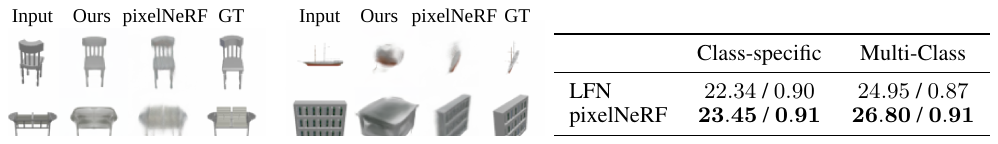
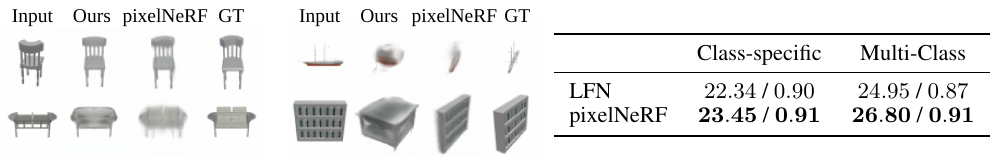
Add Instant-NGP review and fix figure alignment

diff --git a/assets/css/compact-captions.css b/assets/css/compact-captions.css
@@ -6,6 +6,8 @@
   width: fit-content;
   max-width: 100%;
   margin: 8px auto 0;
+  left: auto;
+  transform: none;
   line-height: 0;
 }
 

diff --git a/_posts/2026-09-23-instant-ngp.md b/_posts/2026-09-23-instant-ngp.md
@@ -1,0 +1,222 @@
+---
+title: "[논문리뷰] Instant Neural Graphics Primitives with a Multiresolution Hash Encoding"
+date: 2026-09-23 04:20:00 +0900
+categories: [논문리뷰, Computer Graphics]
+tags: [Neural Graphics Primitives, Multiresolution Hash Encoding, Neural Rendering, NeRF, Signed Distance Function, CUDA, SIGGRAPH]
+description: "SIGGRAPH 2022"
+math: true
+toc: true
+compact_captions: true
+---
+
+> \[[Paper](https://arxiv.org/abs/2201.05989)\] \[[Page](https://nvlabs.github.io/instant-ngp/)\] \[[Github](https://github.com/NVlabs/instant-ngp)\]
+>
+> Thomas Müller, Alex Evans, Christoph Schied, Alexander Keller
+
+## Introduction
+
+Neural graphics primitive는 image, signed distance function(SDF), radiance field처럼 graphics에서 사용하는 함수를 fully connected neural network로 표현한다. 이러한 representation은 continuous하고 compact하지만, high-frequency local detail을 학습하려면 큰 MLP와 긴 optimization 시간이 필요하다. 특히 NeRF는 positional encoding을 사용하더라도 ray마다 network를 반복 평가하므로 training과 rendering cost가 크다.
+
+논문은 작은 MLP 앞에 trainable multiresolution hash encoding을 배치한다. Scene의 detail은 여러 해상도의 hash table에 저장하고, MLP는 interpolated feature들을 결합하여 최종 출력을 예측한다. Hash table은 tree처럼 pruning, splitting, merging을 수행하지 않으며 lookup에 control flow가 필요하지 않다. 저자들은 이를 fully-fused CUDA implementation과 결합하여 single GPU에서 neural graphics primitive를 수 초 안에 학습한다.
+
+![여러 neural graphics primitive의 빠른 학습 결과](/assets/img/instant-ngp/fig1_overview.png)
+_Fig 1. Multiresolution hash encoding을 gigapixel image, SDF, neural radiance caching(NRC), NeRF에 적용한 결과. 각 행은 짧은 학습 시간에도 reference의 local detail에 빠르게 접근하는 과정을 보여준다._
+
+이 논문의 대상은 NeRF 하나로 한정되지 않는다. 동일한 encoding과 대부분의 hyperparameter를 다음 네 task에 적용하고, task에 따라 hash table 크기만 조절한다.
+
+1. 2D coordinate를 RGB color로 mapping하는 gigapixel image approximation
+2. 3D coordinate를 surface까지의 signed distance로 mapping하는 neural SDF
+3. Path tracer의 lighting calculation을 예측하는 neural radiance caching
+4. Image와 camera pose로부터 density와 view-dependent radiance를 학습하는 NeRF
+
+논문의 기여는 task-independent한 multiresolution hash encoding, hash collision을 network optimization에 포함하는 representation, 그리고 GPU의 cache와 parallelism을 고려한 implementation으로 정리된다. 이 결합은 high-quality neural graphics primitive의 training 시간을 수시간에서 수초 또는 수분으로 단축한다.
+
+## Related Work
+
+### Frequency Encodings
+
+MLP는 raw coordinate에서 high-frequency function을 학습하는 데 어려움이 있다. Positional encoding은 scalar coordinate $x$를 여러 frequency의 sine과 cosine으로 변환하여 network가 세부 변화를 표현하도록 한다.
+
+$$
+\begin{equation}
+\operatorname{enc}(x)=
+\left(
+\sin(2^0x),\ldots,\sin(2^{L-1}x),
+\cos(2^0x),\ldots,\cos(2^{L-1}x)
+\right).
+\tag{1}
+\end{equation}
+$$
+
+NeRF는 spatial coordinate와 view direction을 이러한 frequency encoding으로 변환한다. Encoding 자체에는 trainable parameter가 없으므로 scene의 detail은 MLP weights에 저장된다. 따라서 높은 approximation quality를 위해 비교적 큰 network가 필요하다.
+
+### Parametric Encodings
+
+Parametric encoding은 MLP 외부의 grid 또는 tree에 trainable feature vector를 저장한다. Input coordinate 주변의 feature만 lookup하고 interpolation하므로 하나의 sample이 update하는 parameter 수는 작다. 더 많은 parameter를 사용하면서도 MLP를 줄일 수 있어 dense MLP보다 빠르게 수렴한다.
+
+Dense feature grid는 전체 domain에 같은 양의 memory를 할당한다. 하지만 3D scene의 visible surface는 전체 volume에서 작은 부분만 차지하므로 empty space에도 feature가 저장된다. Grid resolution이 $N$일 때 storage는 $O(N^3)$로 증가하지만 surface area는 대체로 $O(N^2)$로 증가한다.
+
+### Sparse Parametric Encodings
+
+Octree와 sparse voxel grid는 occupied region에만 feature를 할당하여 dense grid의 낭비를 줄인다. 그러나 NeRF에서는 geometry가 training 중에 나타나므로 coarse-to-fine refinement와 periodic pruning 같은 구조 변경이 필요하다. 이러한 update는 training procedure를 복잡하게 만들고, GPU에서는 branch divergence와 pointer chasing을 발생시킬 수 있다.
+
+Instant-NGP는 여러 resolution의 dense grid vertex를 고정 크기 array에 mapping한다. Coarse level은 collision-free dense grid로 동작하고, fine level은 spatial hash table로 동작한다. 별도의 sparse structure를 유지하지 않으면서 memory를 제한하고 O(1) lookup을 제공한다.
+
+## Method
+
+### Preliminaries
+
+Coordinate-based neural representation을 $m(\mathbf{y};\Phi)$라 하자. 기존 frequency encoding에서는 입력 coordinate $\mathbf{x}$를 fixed function으로 변환하지만, 이 논문은 trainable parameter $\theta$를 가진 encoding을 사용한다.
+
+$$
+\mathbf{y}=\operatorname{enc}(\mathbf{x};\theta),
+\qquad
+\hat{\mathbf{v}}=m(\mathbf{y};\Phi).
+$$
+
+$\theta$는 multiresolution hash table의 feature vector이고, $\Phi$는 작은 MLP의 weight다. 두 parameter set은 task loss에서 전달되는 gradient로 함께 학습된다.
+
+![서로 다른 input encoding의 NeRF reconstruction 비교](/assets/img/instant-ngp/fig2_encoding_comparison.png)
+_Fig 2. 같은 NeRF implementation에서 input encoding과 MLP 크기를 바꾼 비교. Hash table $T=2^{14}$는 frequency encoding과 비슷한 parameter 수로 8배 이상 빠르게 학습하고, $T=2^{19}$는 training time을 거의 늘리지 않으면서 가장 높은 PSNR을 얻는다._
+
+No encoding을 사용한 MLP는 smooth한 approximation만 학습한다. Frequency encoding은 detail을 개선하지만 큰 MLP가 필요하다. Single-resolution dense grid는 빠르지만 multi-scale structure를 활용하지 못하며, multiresolution dense grid는 높은 품질을 얻는 대신 많은 parameter를 사용한다. Multiresolution hash encoding은 fixed memory budget 안에서 여러 spatial scale의 feature를 제공한다.
+
+### Multiresolution Hash Encoding
+
+Encoding은 $L$개의 독립적인 level로 구성된다. 각 level은 최대 $T$개의 $F$-dimensional feature vector를 저장한다. Level $l$의 grid resolution은 coarsest resolution과 finest resolution 사이의 geometric progression으로 정한다.
+
+$$
+\begin{equation}
+N_l:=\left\lfloor N_{\min}\cdot b^l\right\rfloor.
+\tag{2}
+\end{equation}
+$$
+
+$$
+\begin{equation}
+b:=\exp\left(
+\frac{\ln N_{\max}-\ln N_{\min}}{L-1}
+\right).
+\tag{3}
+\end{equation}
+$$
+
+논문의 기본 설정은 $L=16$, $F=2$, $$N_{\min}=16$$이다. Task에 따라 hash table 크기 $T$는 $2^{14}$부터 $2^{24}$, finest resolution $$N_{\max}$$는 512부터 524288 사이에서 선택한다. 실제로 조절해야 하는 주요 값은 $T$와 $$N_{\max}$$이며, 논문의 task에서 geometric growth factor $b$는 1.26부터 2 사이이다.
+
+Input coordinate $\mathbf{x}\in\mathbb{R}^d$를 level resolution으로 scale하면 $\mathbf{x}_l=\mathbf{x}N_l$을 얻는다. $\lfloor\mathbf{x}_l\rfloor$와 $\lceil\mathbf{x}_l\rceil$이 만드는 voxel에는 $2^d$개의 integer vertex가 있다. 각 vertex coordinate를 level별 feature array의 index로 mapping한다.
+
+Coarse level에서 필요한 entry 수가 $T$보다 작으면 모든 vertex를 서로 다른 entry에 대응시킨다. Fine level에서는 spatial hash function을 사용한다.
+
+$$
+\begin{equation}
+h(\mathbf{x})=
+\left(
+\bigoplus_{i=1}^{d} x_i\pi_i
+\right)\bmod T,
+\tag{4}
+\end{equation}
+$$
+
+$\oplus$는 bit-wise XOR이고, $\pi_i$는 dimension마다 다른 큰 prime number다. 구현에서는 cache coherence를 위해 $\pi_1=1$을 사용하고, 3D coordinate의 나머지 값으로 2654435761과 805459861을 사용한다.
+
+![Multiresolution hash encoding의 처리 과정](/assets/img/instant-ngp/fig3_hash_encoding_pipeline.png)
+_Fig 3. 입력 coordinate에서 voxel vertex hashing, feature lookup, linear interpolation, level별 feature concatenation, MLP evaluation으로 이어지는 multiresolution hash encoding pipeline._
+
+각 level에서 lookup한 corner feature들은 voxel 내부의 상대 위치
+$\mathbf{w}_l=\mathbf{x}_l-\lfloor\mathbf{x}_l\rfloor$에 따라 $d$-linear interpolation된다. $L$개 level의 interpolated feature와 auxiliary input $\boldsymbol{\xi}\in\mathbb{R}^E$를 concatenate하여 MLP input을 만든다.
+
+$$
+\mathbf{y}\in\mathbb{R}^{LF+E}.
+$$
+
+Auxiliary input에는 NRC의 material feature나 NeRF의 encoded view direction처럼 spatial hash encoding의 대상이 아닌 값이 들어간다. Gradient는 MLP, concatenation, interpolation을 거쳐 해당 sample에서 lookup한 feature vector에만 누적된다.
+
+### Implicit Hash Collision Resolution
+
+논문은 collision을 probing, bucket, chaining으로 명시적으로 해결하지 않는다. Coarse level은 collision이 없어 low-frequency structure를 안정적으로 구분하고, fine level은 collision을 허용하면서 high-frequency detail을 저장한다. 서로 다른 두 point가 모든 level에서 동시에 충돌할 가능성은 낮다.
+
+같은 entry를 참조하는 sample의 gradient는 평균된다. Visible surface처럼 loss에 크게 기여하는 point는 empty space보다 큰 gradient를 만들기 때문에, 중요한 detail이 collision update를 지배한다. 이후의 MLP는 여러 level에서 얻은 feature를 함께 해석하여 남은 ambiguity를 줄인다.
+
+Input distribution이 특정 region으로 집중되면 그 region이 사용하는 fine-level entry의 collision도 감소한다. 따라서 explicit tree update 없이 training data의 분포에 맞춰 representation capacity가 이동한다.
+
+### Linear Interpolation and Continuity
+
+Feature를 interpolation하지 않고 직접 lookup하면 grid boundary에 discontinuity가 생긴다. 논문은 각 level에서 $d$-linear interpolation을 사용하여 encoding과 network output을 continuous하게 만든다. 하지만 derivative까지 continuous하지는 않으므로 SDF surface normal에 작은 discontinuity가 남을 수 있다.
+
+Appendix에서는 interpolation weight에 smoothstep을 적용하는 방법을 제시하지만, 모든 실험은 reconstruction quality가 조금 낮아지는 것을 피하기 위해 기본 linear interpolation을 사용한다.
+
+### Implementation
+
+Encoding은 CUDA로 구현되고 tiny-cuda-nn의 fully-fused MLP와 결합된다. Hash table entry는 half precision으로 저장하고, stable parameter update를 위해 full-precision master copy를 유지한다.
+
+Batch의 모든 input에 대해 첫 번째 level을 처리한 뒤 다음 level로 이동하는 level-wise execution을 사용한다. 이 순서는 동시에 필요한 hash table 영역을 줄여 GPU cache utilization을 높인다. RTX 3090의 6 MB L2 cache에서는 $T\leq2^{19}$까지 encoding performance가 대체로 일정하고, 이 크기를 넘으면 cache oversubscription으로 속도가 감소한다.
+
+NeRF를 제외한 task의 MLP는 width 64의 hidden layer 두 개를 사용한다. Adam의 parameter는 $\beta_1=0.9$, $\beta_2=0.99$, $\epsilon=10^{-15}$이며, gradient가 정확히 0인 hash entry에는 Adam update를 수행하지 않는다.
+
+### NeRF Architecture and Ray Marching
+
+NeRF model은 density MLP와 color MLP로 구성된다. Density MLP는 hash-encoded position을 16개 값으로 변환하고, 첫 번째 값을 log-space density로 사용한다. Color MLP는 이 16개 값과 degree 4까지의 spherical harmonics로 표현한 view direction을 받아 RGB를 출력한다. Density MLP는 width 64의 hidden layer 한 개, color MLP는 같은 width의 hidden layer 두 개를 사용한다.
+
+NeRF의 속도에는 encoding 외의 ray-marching optimization도 포함된다. 논문은 occupancy grid로 empty space를 건너뛰고, large scene에서는 distance에 비례해 step size를 늘린다. Ray transmittance가 $10^{-4}$보다 작아지면 march를 종료하며, 유효 sample을 dense buffer로 compact하여 network를 효율적으로 실행한다.
+
+## Experiments
+
+### Hash Table Size and Encoding Configuration
+
+Hash table 크기 $T$는 memory, quality, performance의 직접적인 trade-off를 제공한다. $T$가 커지면 collision이 감소해 품질은 높아지지만 memory usage가 증가하고, GPU cache를 넘은 뒤에는 training과 inference가 느려진다.
+
+![Hash table 크기에 따른 training time과 reconstruction quality](/assets/img/instant-ngp/fig4_hash_size_tradeoff.png)
+_Fig 4. Gigapixel image, SDF, NeRF에서 hash table 크기 $T$에 따른 test error와 training time. 큰 $T$는 품질을 높이지만 RTX 3090의 cache가 포화되는 $T>2^{19}$ 부근에서 performance가 급격히 감소한다._
+
+Feature dimension $F$와 level 수 $L$을 비슷한 parameter budget에서 비교한 결과, $F=2$와 $L=16$이 네 task 전반에서 quality-performance Pareto optimum에 가까웠다. 논문은 이를 기본 설정으로 사용한다.
+
+### Gigapixel Image Approximation
+
+Gigapixel image task는 2D coordinate를 RGB color로 mapping한다. Tokyo panorama에서 ACORN은 36.9시간 후 PSNR 38.59 dB를 기록한다. Hash table 크기 $T=2^{24}$를 사용한 본 방법은 2.5분 만에 같은 PSNR에 도달하고, 4분 후 41.9 dB를 기록한다.
+
+저자들은 fully-fused CUDA kernel이 약 10배의 차이를 만들고, 더 작은 MLP를 사용할 수 있게 하는 input encoding이 나머지 속도 향상의 큰 부분을 만든다고 설명한다. 또한 ACORN이 adaptive subdivision과 learning curriculum을 사용하는 것과 달리, hash encoding에는 training 중의 structure update가 필요하지 않다.
+
+### Signed Distance Functions
+
+SDF에서는 multiresolution hash encoding을 frequency encoding과 NGLOD에 비교한다. NGLOD는 ground-truth mesh에 맞춘 octree를 사용하므로 가장 높은 visual quality를 보인다. Hash encoding은 비슷한 parameter 수에서 NGLOD에 가까운 IoU를 기록하고, octree 내부뿐 아니라 training volume 전체에서 SDF를 평가할 수 있다.
+
+![SDF reconstruction의 frequency encoding, NGLOD 및 hash encoding 비교](/assets/img/instant-ngp/fig7_sdf_comparison.png)
+_Fig 7. 11,000 step 동안 학습한 neural SDF 비교. Hash encoding은 NGLOD와 비슷한 IoU를 얻지만 random hash collision에서 비롯된 surface roughness가 나타난다._
+
+정성 결과에서는 finest grid scale의 grainy microstructure가 관찰된다. 논문은 collision-free analog인 NGLOD에는 같은 artifact가 없다는 점을 근거로 hash collision을 원인으로 본다. 이 artifact는 training 시간을 늘려도 사라지지 않는다.
+
+### Neural Radiance Caching
+
+NRC는 real-time path tracer가 생성하는 sparse light path로부터 online supervision을 받는다. Camera와 scene이 움직이는 동안 network는 현재 관측되는 shape과 lighting에 계속 적응해야 하며, training budget은 frame당 1 ms이다.
+
+Multiresolution hash encoding은 기존 triangle-wave encoding보다 intricate shadow와 close-up detail을 선명하게 학습한다. 1920×1080에서 triangle-wave encoding은 147 FPS, hash encoding은 133 FPS를 기록한다. 약 0.7 ms의 overhead에는 encoding의 training과 inference가 모두 포함된다.
+
+### Neural Radiance and Density Fields
+
+NeRF 실험은 synthetic NeRF dataset의 Mic, Ficus, Chair, Hotdog, Materials, Drums, Ship, Lego를 사용한다. 입력은 RGB image와 known camera pose이며, differentiable ray marcher를 통해 density와 view-dependent color를 학습한다.
+
+![Synthetic NeRF dataset의 PSNR 비교](/assets/img/instant-ngp/table2_nerf_psnr.png)
+_Table 2. Multiresolution hash encoding의 1초부터 5분까지의 PSNR과 NeRF, mip-NeRF, NSVF 및 optimized frequency-encoding baseline 비교._
+
+Ours: Hash의 8-scene 평균 PSNR은 1초에 21.202 dB, 5초에 29.261 dB, 15초에 31.407 dB, 1분에 32.635 dB, 5분에 33.176 dB다. 논문에 인용된 수시간 학습 결과는 mip-NeRF 33.090 dB, NSVF 31.739 dB, NeRF 31.005 dB이다.
+
+Hash encoding은 Ficus, Drums, Ship, Lego처럼 geometric detail이 많은 scene에서 높은 결과를 얻는다. 반면 Materials처럼 복잡한 view-dependent reflection이 있는 scene에서는 mip-NeRF와 NSVF가 더 높은 PSNR을 기록한다. 논문은 빠른 실행을 위해 사용한 작은 MLP가 복잡한 reflection을 표현하는 데 불리하다고 설명한다.
+
+![Instant-NGP로 학습한 실제 장면 NeRF](/assets/img/instant-ngp/fig12_nerf_results.png){: width="520" }
+_Fig 12. Modular synthesizer와 large natural 360 scene의 NeRF reconstruction. 왼쪽 결과는 1080p에서 128 samples를 5초 동안 accumulate했으며, 오른쪽 장면은 같은 RTX 3090에서 10 FPS로 interactive rendering된다._
+
+같은 optimized implementation에서 hash encoding을 frequency encoding으로 바꾸고 MLP를 원래 NeRF와 비슷한 크기로 늘린 baseline은 5분 후 평균 30.056 dB를 기록한다. Ours: Hash는 5–15초 만에 이를 넘어선다. 논문은 이 차이를 hash encoding과 작은 MLP에서 얻은 20–60배의 improvement로 해석한다. 전체적인 orders-of-magnitude speedup에는 fully-fused CUDA implementation과 accelerated ray marching도 함께 기여한다.
+
+### Limitations
+
+Hash collision은 SDF에서 가장 뚜렷한 grainy microstructure를 만든다. MLP가 collision을 완전히 보상하지 못하며, 논문은 filtered lookup이나 additional smoothness prior가 필요할 수 있다고 설명한다.
+
+Generative model은 보통 regular dense grid의 feature를 CNN으로 생성한다. Hash encoding의 feature는 spatial point와 bijective한 regular arrangement를 갖지 않으므로, 별도의 generator로 hash feature를 생성하는 setting에는 추가적인 설계가 필요하다.
+
+NeRF에서는 작은 MLP가 complex view-dependent reflection의 품질을 제한한다. 또한 hash table 크기가 GPU cache capacity를 넘으면 performance가 급격히 감소하므로, $T$를 늘려 얻는 품질 향상에는 hardware-dependent한 비용이 따른다.
+
+## Conclusion
+
+Instant Neural Graphics Primitives는 low-dimensional coordinate function을 위한 trainable multiresolution hash encoding을 제안한다. Coarse level의 collision-free structure와 fine level의 hashed detail을 결합하고, interpolation된 feature를 작은 MLP가 해석하도록 하여 fixed memory budget에서 high-frequency function을 빠르게 학습한다.
+
+이 encoding은 task-specific pruning이나 tree update 없이 gigapixel image, SDF, neural radiance caching, NeRF에 동일하게 적용된다. Fully-fused CUDA kernel과 GPU-friendly memory access, 작은 MLP, task별 rendering optimization을 결합하여 single GPU에서 수초 단위의 training과 interactive rendering을 달성한다. 실험은 encoding이 빠른 convergence를 제공함을 보여주는 동시에, hash collision에 의한 surface microstructure와 작은 MLP의 view-dependent appearance 한계를 함께 제시한다.
